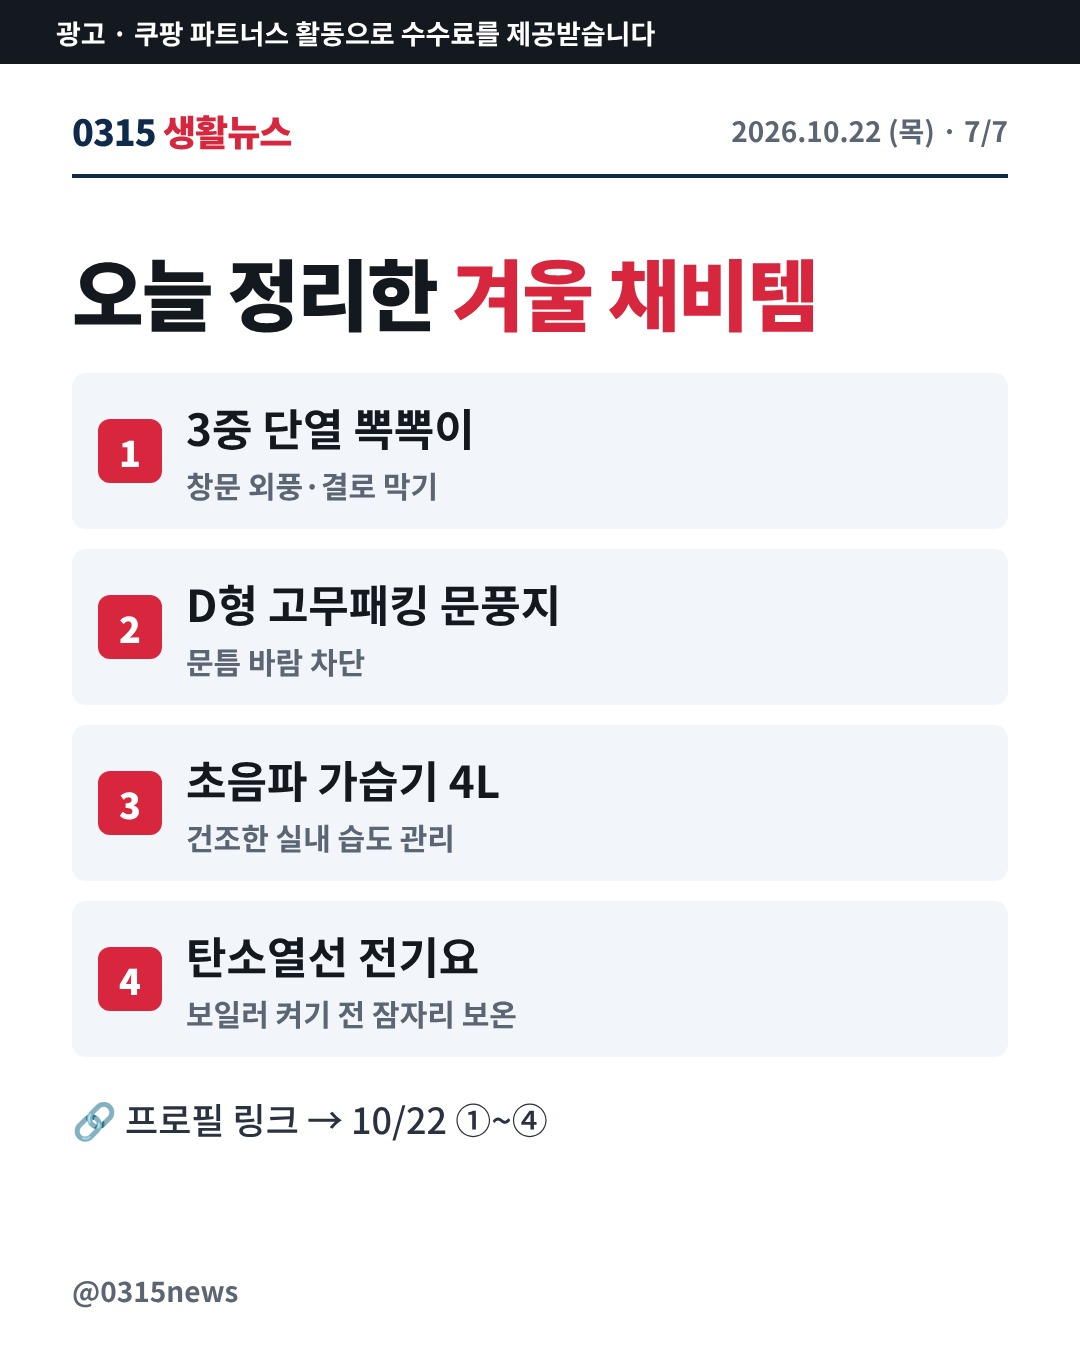
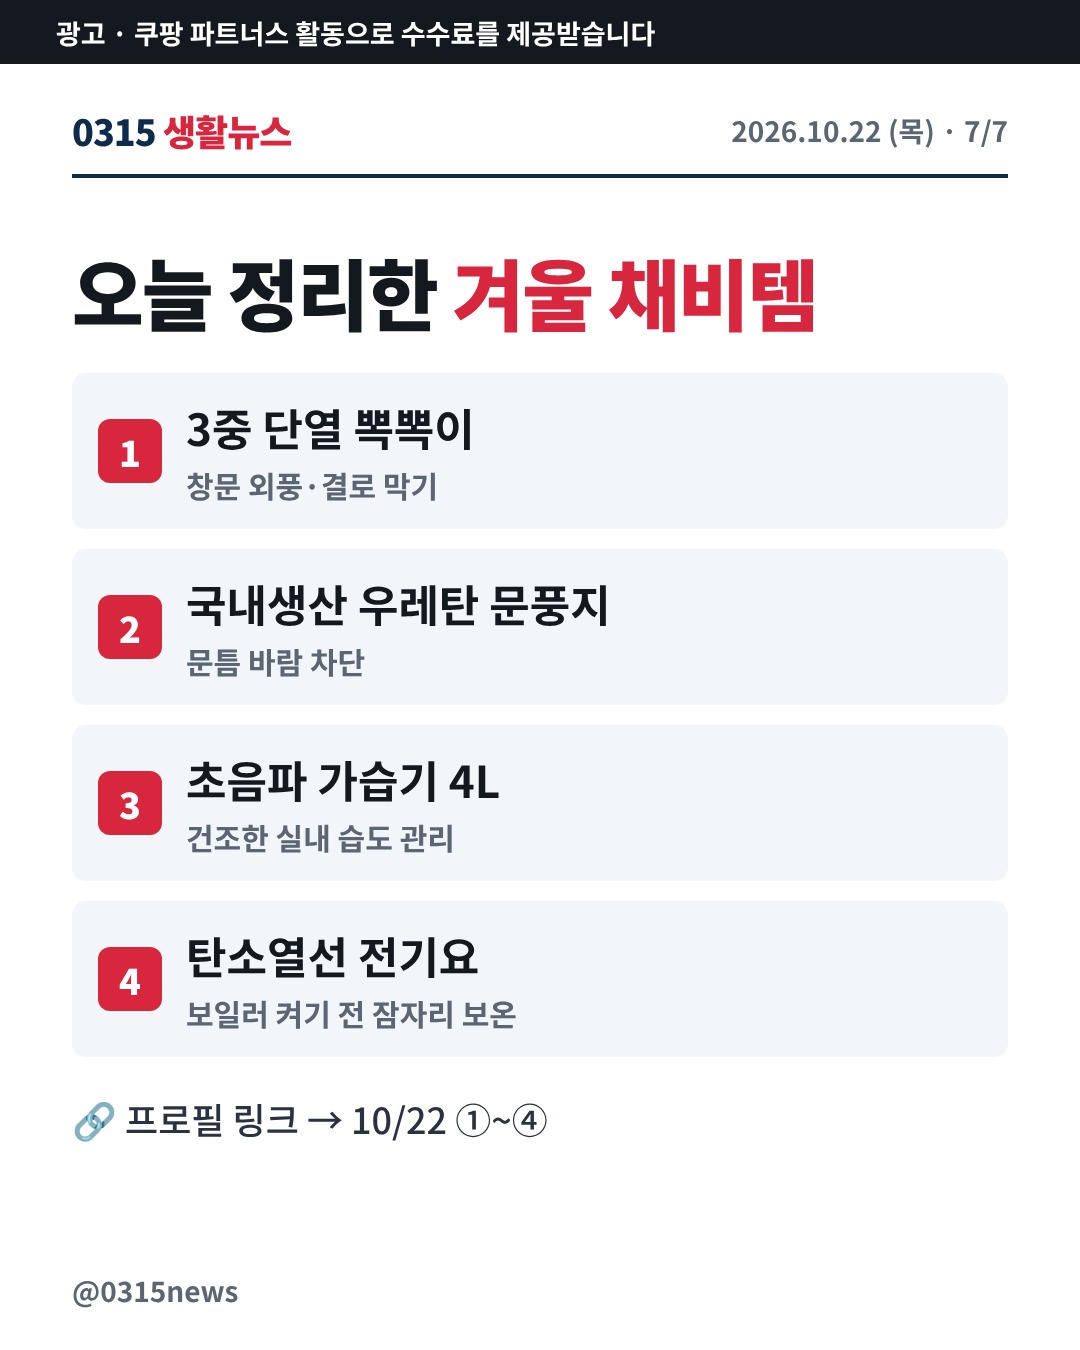
10/22 링크 4개 반영, 문풍지 상품 교체, 쿠팡 대가성 문구 원문으로
Claude-Session: https://claude.ai/code/session_01KxSwLr9DfWSMf1EfiV4S9g

Changed region(s): [[0.1528, 0.4356, 0.5806, 0.4667]]

diff --git a/docs/posts/2026-10-22/C/slides/03.html b/docs/posts/2026-10-22/C/slides/03.html
@@ -19,6 +19,6 @@ body{font-family:'Noto Sans CJK KR','Noto Color Emoji',sans-serif;position:relat
 .step b{flex:none;width:76px;height:76px;border-radius:50%;background:#ffe14d;color:#111;font-size:44px;display:grid;place-items:center}
 .step p{font-size:44px;font-weight:700;line-height:1.35}.step small{display:block;font-size:30px;color:#b9bec8;font-weight:600}</style></head><body><div class="ad">광고 · 쿠팡 파트너스 활동으로 수수료를 제공받습니다</div>
 <div class="num">02</div><div class="code">품번 0002</div>
-<div class="pemo">🚪</div><div class="pname">D형 고무패킹 문풍지<br>(4개입)</div>
-<div class="pts"><div>문틈에 붙여 들어오는 바람 차단</div><div>D형 단면이 문틈을 메워줘요</div><div>4개라 방문 여러 개 한 번에</div></div>
-<div class="meta"><span>⭐ 리뷰 2,200+</span><span>💰 5천원대</span><span>🚀 내일 도착</span></div><div class="foot"><span>@0315_pick</span><span>옆으로 →</span></div></body></html>
+<div class="pemo">🚪</div><div class="pname">국내생산 우레탄 문풍지<br>(3m × 5개입)</div>
+<div class="pts"><div>문틈에 붙여 들어오는 바람 차단</div><div>5개입이라 방문·창문 여러 곳에</div><div>사계절 쓰는 우레탄 소재</div></div>
+<div class="meta"><span>⭐ 리뷰 1,800+</span><span>💰 6천원대</span><span>🚀 내일 도착</span></div><div class="foot"><span>@0315_pick</span><span>옆으로 →</span></div></body></html>

diff --git a/docs/posts/2026-10-22/A/slides/07.html b/docs/posts/2026-10-22/A/slides/07.html
@@ -22,7 +22,7 @@ ol.prod b{flex:none;width:64px;height:64px;border-radius:12px;background:#d7263d
 <div class="mast"><div class="brand">0315 <b>생활뉴스</b></div><div class="date">2026.10.22 (목) · 7/7</div></div>
 <div class="body"><h2>오늘 정리한 <span class="hl">겨울 채비템</span></h2>
 <ol class="prod"><li><b>1</b><div>3중 단열 뽁뽁이<span>창문 외풍·결로 막기</span></div></li>
-<li><b>2</b><div>D형 고무패킹 문풍지<span>문틈 바람 차단</span></div></li>
+<li><b>2</b><div>국내생산 우레탄 문풍지<span>문틈 바람 차단</span></div></li>
 <li><b>3</b><div>초음파 가습기 4L<span>건조한 실내 습도 관리</span></div></li>
 <li><b>4</b><div>탄소열선 전기요<span>보일러 켜기 전 잠자리 보온</span></div></li></ol>
 <p class="lead" style="font-size:36px">🔗 프로필 링크 → 10/22 ①~④</p></div>

diff --git a/content/make_2026-10-22.py b/content/make_2026-10-22.py
@@ -5,7 +5,7 @@ from pathlib import Path
 ROOT = Path("/home/claude/0315-media")
 DATE = "2026-10-22"
 AD = "광고 · 쿠팡 파트너스 활동으로 수수료를 제공받습니다"
-DISC = "[광고] 이 게시물은 쿠팡 파트너스 활동의 일환으로, 이에 따른 일정액의 수수료를 제공받습니다."
+DISC = "[광고] 이 포스팅은 쿠팡 파트너스 활동의 일환으로, 이에 따른 일정액의 수수료를 제공받습니다."
 FONT = "'Noto Sans CJK KR','Noto Color Emoji',sans-serif"
 BASE = f"""*{{box-sizing:border-box;margin:0;padding:0}}html,body{{width:1080px;height:1350px;overflow:hidden}}
 body{{font-family:{FONT};position:relative;-webkit-font-smoothing:antialiased}}
@@ -80,7 +80,7 @@ a_slides = [
 <ul class="chk"><li>창문·현관 틈 외풍 막기</li><li>실내 습도 50% 맞추기</li><li>잠자리 보온부터 챙기기</li><li>두꺼운 외투 대신 얇게 겹쳐 입기</li></ul>""", src=False),
     a_slide(7, n, """<h2>오늘 정리한 <span class="hl">겨울 채비템</span></h2>
 <ol class="prod"><li><b>1</b><div>3중 단열 뽁뽁이<span>창문 외풍·결로 막기</span></div></li>
-<li><b>2</b><div>D형 고무패킹 문풍지<span>문틈 바람 차단</span></div></li>
+<li><b>2</b><div>국내생산 우레탄 문풍지<span>문틈 바람 차단</span></div></li>
 <li><b>3</b><div>초음파 가습기 4L<span>건조한 실내 습도 관리</span></div></li>
 <li><b>4</b><div>탄소열선 전기요<span>보일러 켜기 전 잠자리 보온</span></div></li></ol>
 <p class="lead" style="font-size:36px">🔗 프로필 링크 → 10/22 ①~④</p>""", src=False),
@@ -105,7 +105,7 @@ write("A", a_slides, {
     "caption": a_caption,
     "products": [
         {"no": 1, "name": "탐사 국내생산 3중 단열뽁뽁이 에어캡", "coupang_url": "https://www.coupang.com/vp/products/320451654", "affiliate_url": ""},
-        {"no": 2, "name": "Perfectforyou 고무패킹 문풍지 D형 4개", "coupang_url": "https://www.coupang.com/vp/products/8357754516", "affiliate_url": ""},
+        {"no": 2, "name": "코멧 국내생산 사계절 우레탄 문풍지 3m 5개", "coupang_url": "https://www.coupang.com/vp/products/8301704105", "affiliate_url": ""},
         {"no": 3, "name": "홈플래닛 초음파 가습기 4L", "coupang_url": "https://www.coupang.com/vp/products/324788226", "affiliate_url": ""},
         {"no": 4, "name": "한일 탄소열선 전기요 (싱글)", "coupang_url": "https://www.coupang.com/vp/products/9150828084", "affiliate_url": ""},
     ],
@@ -199,8 +199,8 @@ c_slides = [
     c_cover,
     c_prod(1, "0001", "🪟", "3중 단열 뽁뽁이<br>(국내생산)", ["창문에 붙이기만 하면 끝", "공기층 3겹으로 외풍·결로 차단", "민무늬라 어느 창에 붙여도 무난"],
            ["⭐ 리뷰 2.4만+", "💰 9천원 안팎", "🚀 내일 도착"]),
-    c_prod(2, "0002", "🚪", "D형 고무패킹 문풍지<br>(4개입)", ["문틈에 붙여 들어오는 바람 차단", "D형 단면이 문틈을 메워줘요", "4개라 방문 여러 개 한 번에"],
-           ["⭐ 리뷰 2,200+", "💰 5천원대", "🚀 내일 도착"]),
+    c_prod(2, "0002", "🚪", "국내생산 우레탄 문풍지<br>(3m × 5개입)", ["문틈에 붙여 들어오는 바람 차단", "5개입이라 방문·창문 여러 곳에", "사계절 쓰는 우레탄 소재"],
+           ["⭐ 리뷰 1,800+", "💰 6천원대", "🚀 내일 도착"]),
     c_prod(3, "0003", "🧊", "실리콘 틈새막이 테이프<br>(45mm × 5m)", ["반투명이라 창틀에 티 안 남", "길게 잘라 쓰는 테이프형", "3천원대로 가장 부담 없음"],
            ["⭐ 리뷰 1,300+", "💰 3천원대", "🚀 내일 도착"]),
     page(C_CSS, f"""<div class="ad">{AD}</div>
@@ -220,8 +220,8 @@ c_caption = f"""{DISC}
 1. 3중 단열 뽁뽁이 💛 품번 0001
 창문에 붙이기만 하면 끝. 공기층 3겹이라 외풍·결로를 같이 막아줘요.
 
-2. D형 고무패킹 문풍지 💛 품번 0002
-문틈으로 들어오는 바람을 막아줘요. 4개입이라 방문 여러 개를 한 번에 해결.
+2. 국내생산 우레탄 문풍지 💛 품번 0002
+5개입이라 방문·창문 여러 곳을 한 번에. 문틈으로 들어오는 바람을 막아줘요.
 
 3. 실리콘 틈새막이 테이프 💛 품번 0003
 반투명이라 창틀에 티가 안 나요. 3천원대로 제일 부담 없는 선택.
@@ -234,7 +234,7 @@ write("C", c_slides, {
     "caption": c_caption,
     "products": [
         {"no": 1, "code": "0001", "name": "탐사 국내생산 3중 단열뽁뽁이 에어캡", "coupang_url": "https://www.coupang.com/vp/products/320451654", "affiliate_url": ""},
-        {"no": 2, "code": "0002", "name": "Perfectforyou 고무패킹 문풍지 D형 4개", "coupang_url": "https://www.coupang.com/vp/products/8357754516", "affiliate_url": ""},
+        {"no": 2, "code": "0002", "name": "코멧 국내생산 사계절 우레탄 문풍지 3m 5개", "coupang_url": "https://www.coupang.com/vp/products/8301704105", "affiliate_url": ""},
         {"no": 3, "code": "0003", "name": "아텍스 실리콘 틈새차단 문풍지 테이프 45mm×5m", "coupang_url": "https://www.coupang.com/vp/products/9287063502", "affiliate_url": ""},
     ],
 })

diff --git a/links/2026-10-22.md b/links/2026-10-22.md
@@ -6,32 +6,32 @@
 ## A · 0315news · 2026-10-22
 - A1 탐사 국내생산 3중 단열뽁뽁이 에어캡
   쿠팡: https://www.coupang.com/vp/products/320451654
-  파트너스: 
-- A2 Perfectforyou 고무패킹 문풍지 D형 4개
-  쿠팡: https://www.coupang.com/vp/products/8357754516
+  파트너스: https://link.coupang.com/a/h2ZA76DMiG
+- A2 코멧 국내생산 사계절 우레탄 문풍지 3m 5개
+  쿠팡: https://www.coupang.com/vp/products/8301704105
   파트너스: 
 - A3 홈플래닛 초음파 가습기 4L
   쿠팡: https://www.coupang.com/vp/products/324788226
-  파트너스: 
+  파트너스: https://link.coupang.com/a/h2ZDxjaWGq
 - A4 한일 탄소열선 전기요 (싱글)
   쿠팡: https://www.coupang.com/vp/products/9150828084
-  파트너스: 
+  파트너스: https://link.coupang.com/a/h2ZEMU6Smy
 
 ## B · 0315_zzal · 2026-10-22
 - B1 한일 탄소열선 전기요 (싱글)
   쿠팡: https://www.coupang.com/vp/products/9150828084
-  파트너스: 
+  파트너스: https://link.coupang.com/a/h2ZEMU6Smy
 - B2 탐사 국내생산 3중 단열뽁뽁이 에어캡
   쿠팡: https://www.coupang.com/vp/products/320451654
-  파트너스: 
+  파트너스: https://link.coupang.com/a/h2ZA76DMiG
 
 ## C · 0315_pick · 2026-10-22
 - C1 탐사 국내생산 3중 단열뽁뽁이 에어캡
   쿠팡: https://www.coupang.com/vp/products/320451654
-  파트너스: 
-- C2 Perfectforyou 고무패킹 문풍지 D형 4개
-  쿠팡: https://www.coupang.com/vp/products/8357754516
+  파트너스: https://link.coupang.com/a/h2ZA76DMiG
+- C2 코멧 국내생산 사계절 우레탄 문풍지 3m 5개
+  쿠팡: https://www.coupang.com/vp/products/8301704105
   파트너스: 
 - C3 아텍스 실리콘 틈새차단 문풍지 테이프 45mm×5m
   쿠팡: https://www.coupang.com/vp/products/9287063502
-  파트너스: 
+  파트너스: https://link.coupang.com/a/h2ZFrzIRps
